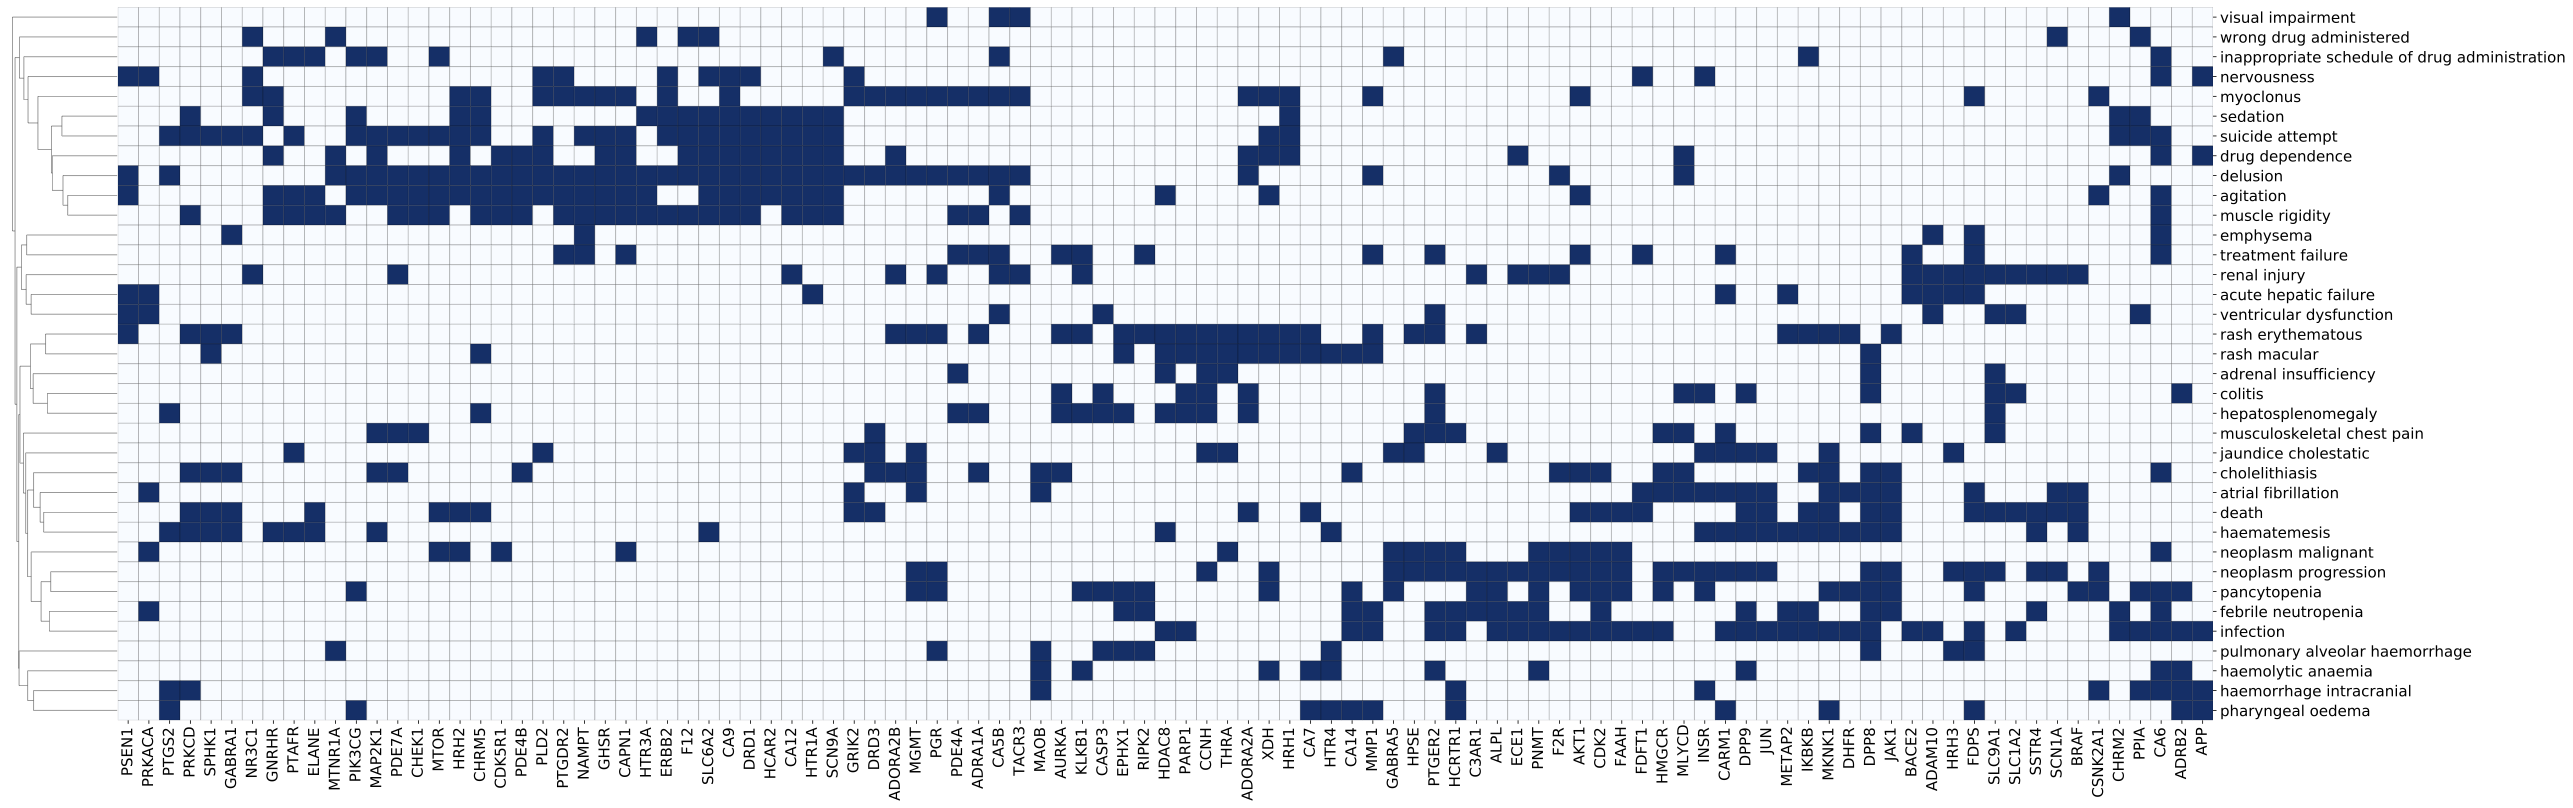
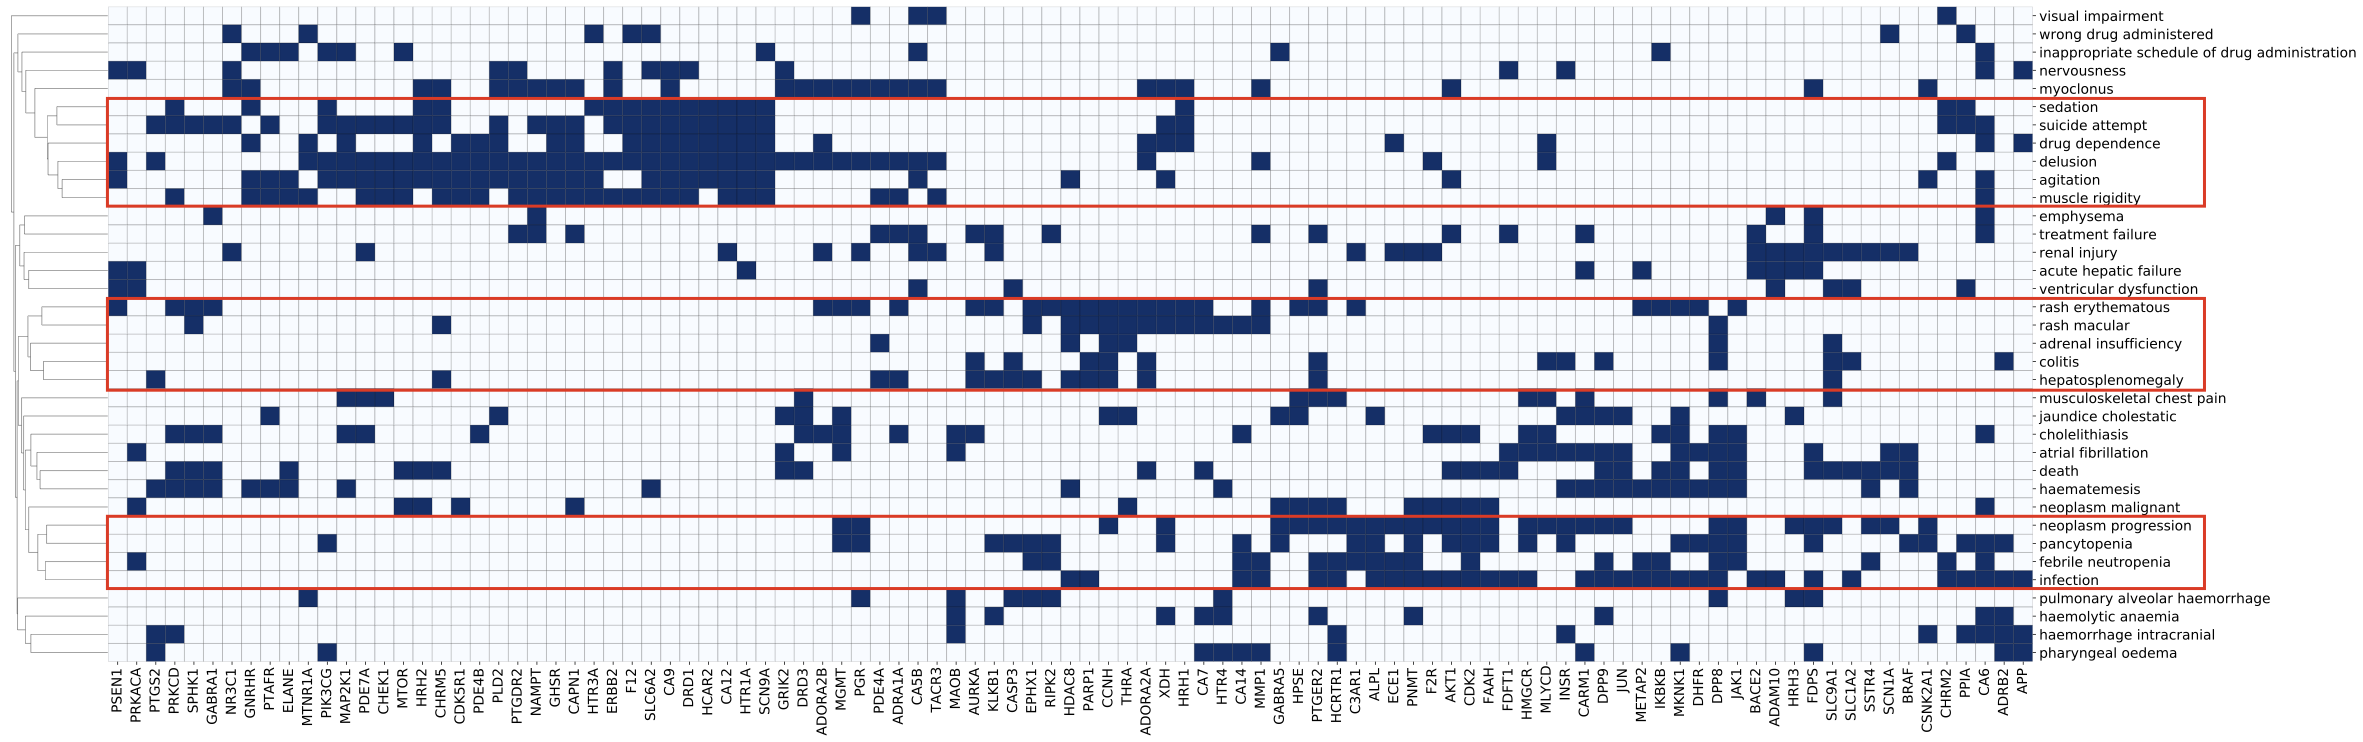
Add h-clustering results of adverse events

diff --git a/README.md b/README.md
@@ -18,13 +18,19 @@ We also mapped the targets to their Gene Ontology and Reactome pathway annotatio
 
 ![function_similarity_group](plot/function_similarity/descriptor_all_select_features_mc_0.85_function_similarity_group_boxplot.png)
 
+### Similar adverse events are clustered together by predictive targets 
+
+We performed hierarchical clustering on 36 adverse events (AUROC > 0.65) using a subset of predictive targets (mapped to more than 5/36 adverse events). WE used pvclust andidentified  three consistently significant clusters (size < 10). The first cluster (top) expands across six behavioral events including sedation, suicide attempt, drug dependence, delusion, agitation, and muscle rigidity. The second cluster (middle) expands across five events, including two dermal events: rash erythematous and rash macular, as well as two digestive events: colitis and hepatosplenomegaly. The third cluster (bottom) expands across four events, including three hematologic events: pancytopenia, febrile neutropenia, and infection. 
+
+![adverse_event_cluster](plot/target_map/descriptor_all_all_adverse_event_select_features_data_cluster.png)
+
 ### Identified target genes are differentially expressed in the tissue of toxicity 
 
 Next, we analyzed the differential expression of target genes in the tissue of toxicity. For this analysis, we used GTEx tissue-specific TPM data. We normalized the expression values of each gene by the median expression across all tissues, then took the absolute value of logarithms as a measure of differential expression. We mapped 15 adverse events of interest (with model AUROC > 0.65) to a GTEx tissue, compared the differential expression of identified target genes to the null distribution consisting of all genes. The boxplot below shows the comparison. The identified target genes of seven adverse events are differentially expressed in their tissues of toxicity. They are: colitis (colon), renal injury (kidney), muscle rigidity (muscle), myoclonus (muscle), rash erythematous (skin), rash macular (skin), and pancytopenia (blood). 
 
 ![select_targets_de_compare](plot/target_expression/descriptor_all_all_adverse_event_select_targets_de_compare.png)
 
-## Identified target genes are enriched for disease markers/therapeutics
+### Identified target genes are enriched for disease markers/therapeutics
 
 Last, we analyzed the connections between target genes and associated diseases. For this analysis, we used disease-gene connections from CTD. We only kept the connections with direct supporting evidence (e.g. the gene is a disease marker/therapeutic). We mapped 13 adverse events of interest (with model AUROC > 0.65) to a list of associated diseases through key words matching. We then tested whether the identified target genes are enriched for disease-related genes. The table below shows the results of Fisher's exact test. In six of the 12 adverse events, the identified target genes are twice or more likely to be disease-related genes (OR > 2). In two of the 12 adverse events, the identified target genes are significantly enriched for disease-related genes (FDR < 0.05). They are: rash erythematous-skin disease, and hepatosplenomegaly-liver disease. 
 

diff --git a/data/README.md b/data/README.md
@@ -38,3 +38,5 @@ Target pairs were then grouped into ones with common function (functionn similar
 ## Predictive target map of adverse events 
  
 + [Mapping between 36 adverse events and 101 targets](target_map/descriptor_all_all_adverse_event_select_features_data.tsv) were generated. Adverse events with AUROC > 0.65 were included in the map. Targets that are mapped to more than 5 adverse events are included in the map. 
+
++ [Significant clusters of adverse events](target_map/descriptor_all_all_adverse_event_select_features_data_cluster_ae.tsv) were genereated from dendrogram of hierarchical clustering. 

diff --git a/src/README.md b/src/README.md
@@ -24,5 +24,7 @@
 
 + [`visualize_target_map.py`](visualize_target_map.py) visualizes relationship map between adverse events and predictive target features. 
 
++ [`cluster_target_map.R`](cluster_target_map.R) implements pvclust package to identify significant clusters of adverse events from adverse event-predictive targets map.
+
 + [`functions.R`](functions.R) contains R functions required for other scripts in the repository.
 
